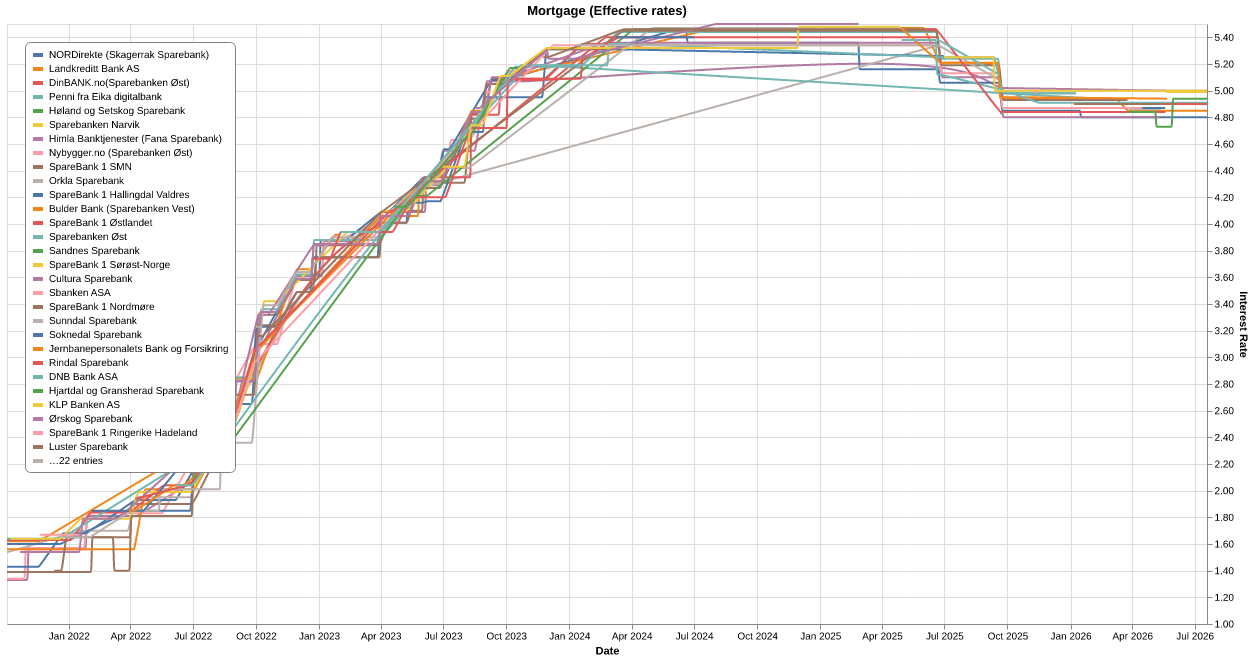
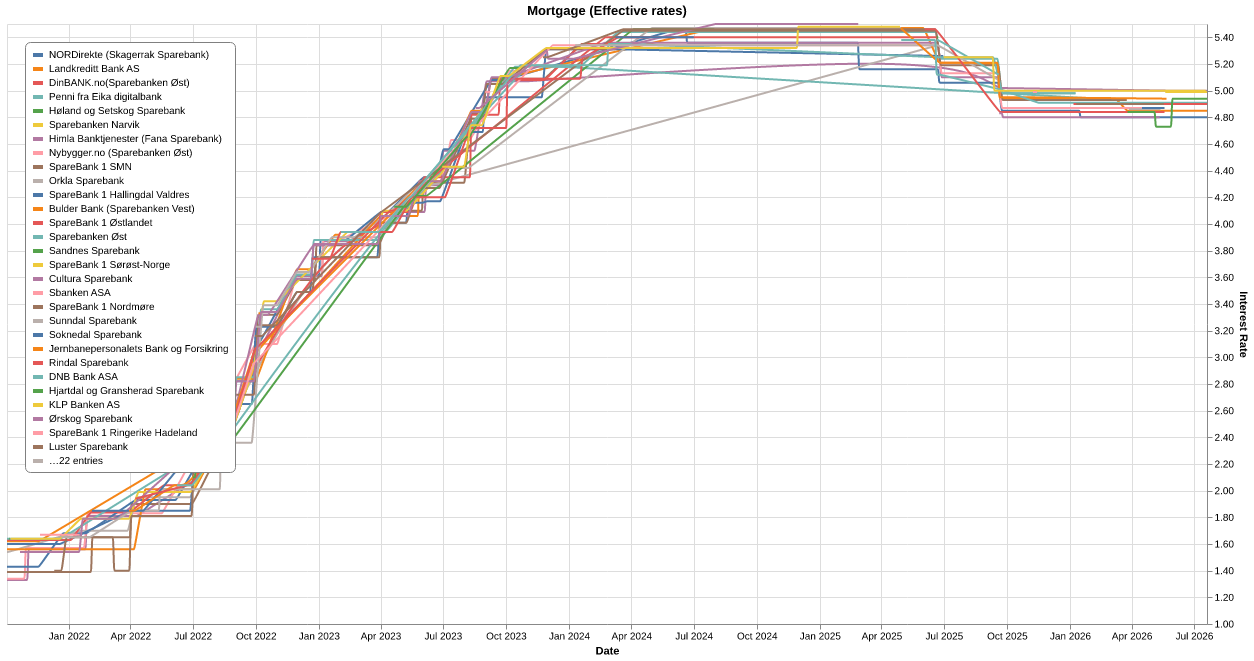
Scheduled data update

diff --git a/README.md b/README.md
@@ -12,9 +12,9 @@ The datasets in this repository are automaticly updated every day at **2:05 AM**
 <!-- table starts -->
 |Dataset|Source|Date Range|Updated|Download|Preview|
 | :--- | :--- | :--- | :--- | :--- | :--- |
-|[Mortgage](#mortgage)|Finansportalen|2021 - Present|2026-07-19|[<center>csv</center>](https://raw.githubusercontent.com/frefrik/norway-finance-statistics/master/data/no_mortgage.csv)|[<center>preview</center>](data/no_mortgage.csv)|
+|[Mortgage](#mortgage)|Finansportalen|2021 - Present|2026-07-20|[<center>csv</center>](https://raw.githubusercontent.com/frefrik/norway-finance-statistics/master/data/no_mortgage.csv)|[<center>preview</center>](data/no_mortgage.csv)|
 |[Key policy rate](#key-policy-rate)|Norges Bank|1991 - Present|2026-07-17|[<center>csv</center>](https://raw.githubusercontent.com/frefrik/norway-finance-statistics/master/data/no_keyPolicyRate.csv)|[<center>preview</center>](data/no_keyPolicyRate.csv)|
-|[NOWA](#nowa---norwegian-overnight-weighted-average)|Norges Bank|2011 - Present|2026-07-19|[<center>csv</center>](https://raw.githubusercontent.com/frefrik/norway-finance-statistics/master/data/no_nowa.csv)|[<center>preview</center>](data/no_nowa.csv)|
+|[NOWA](#nowa---norwegian-overnight-weighted-average)|Norges Bank|2011 - Present|2026-07-20|[<center>csv</center>](https://raw.githubusercontent.com/frefrik/norway-finance-statistics/master/data/no_nowa.csv)|[<center>preview</center>](data/no_nowa.csv)|
 |[Exchange Rates](#exchange-rates)|Norges Bank|1980 - Present|2026-07-18|[<center>csv</center>](https://raw.githubusercontent.com/frefrik/norway-finance-statistics/master/data/no_exchangeRates.csv)|[<center>preview</center>](data/no_exchangeRates.csv)|
 |[Inflation Indicators (CPI)](#inflation-indicators-cpi)|Norges Bank|2006 - Present|2026-07-15|[<center>csv</center>](https://raw.githubusercontent.com/frefrik/norway-finance-statistics/master/data/no_cpi.csv)|[<center>preview</center>](data/no_cpi.csv)|
 <!-- table ends -->